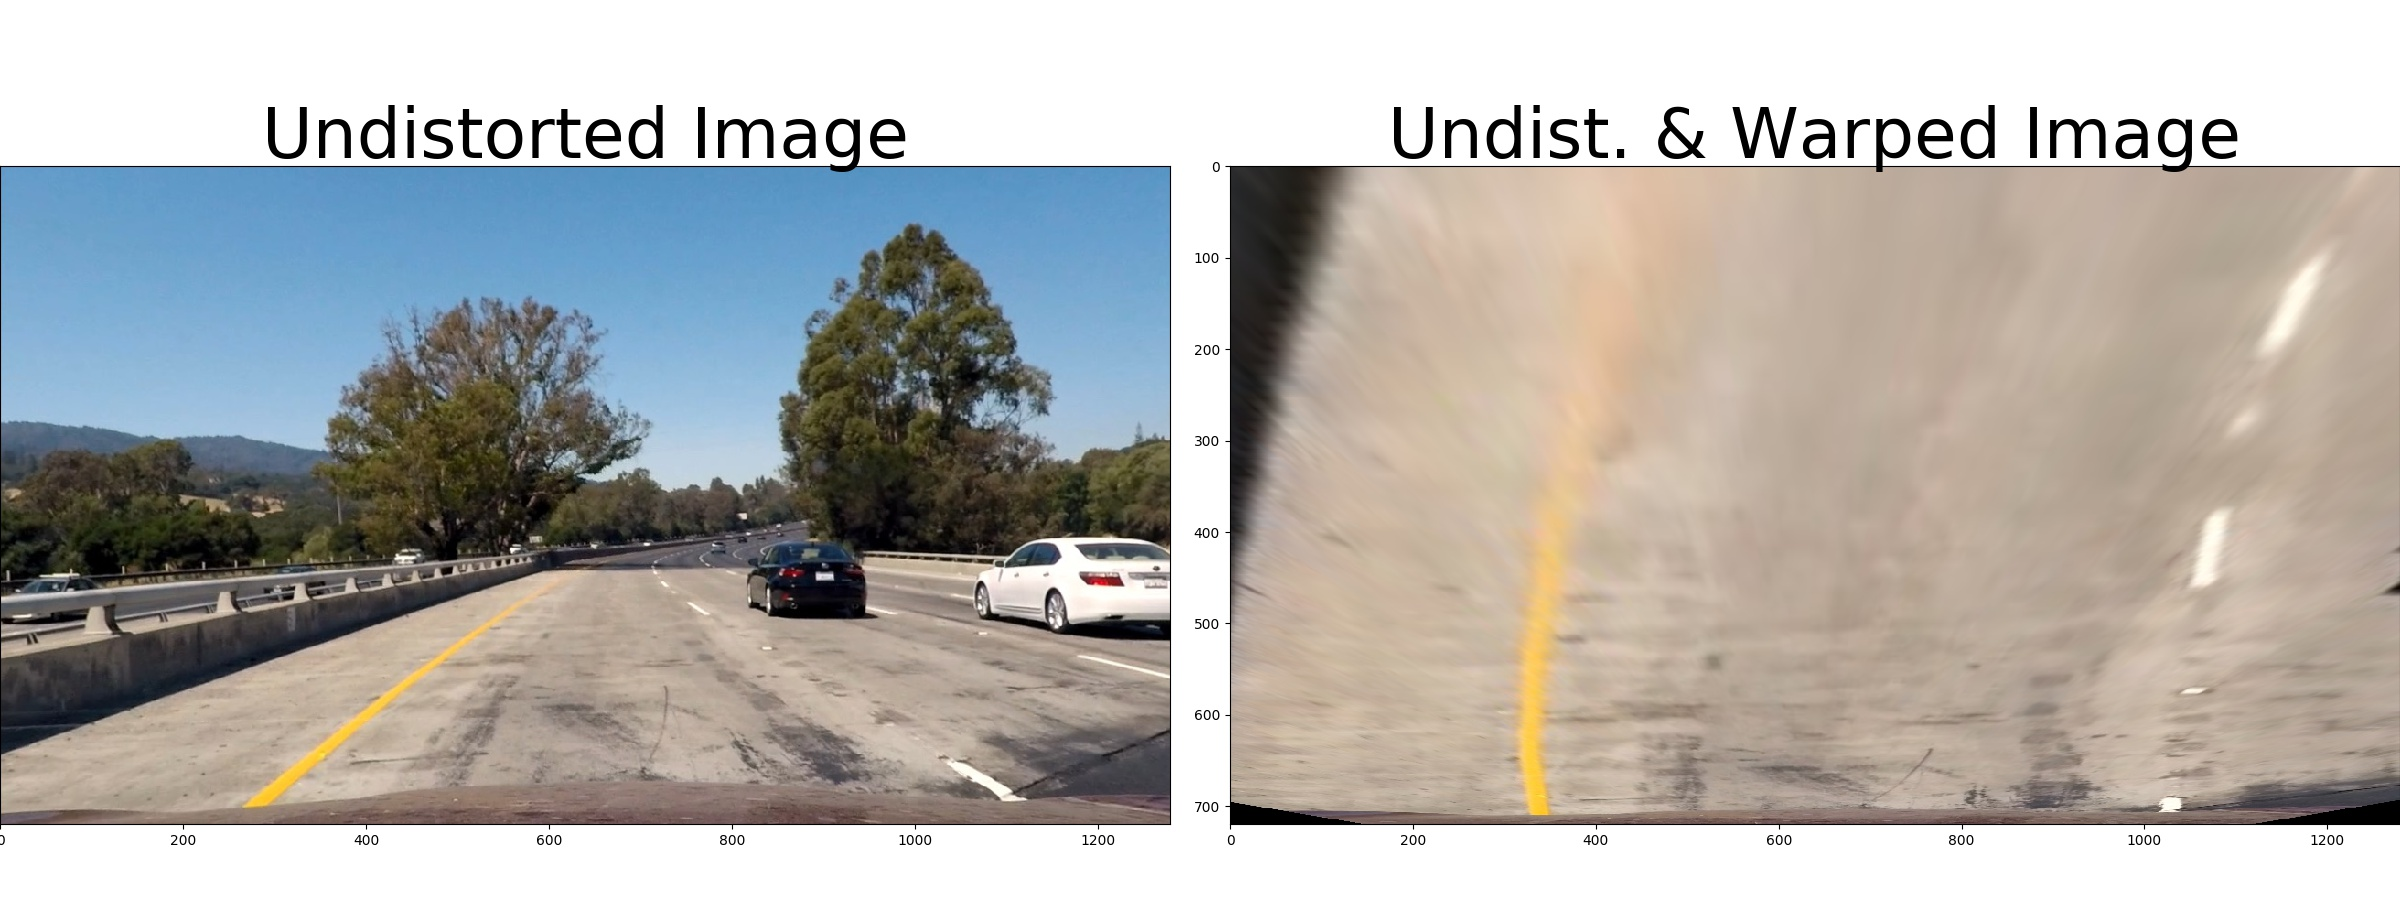
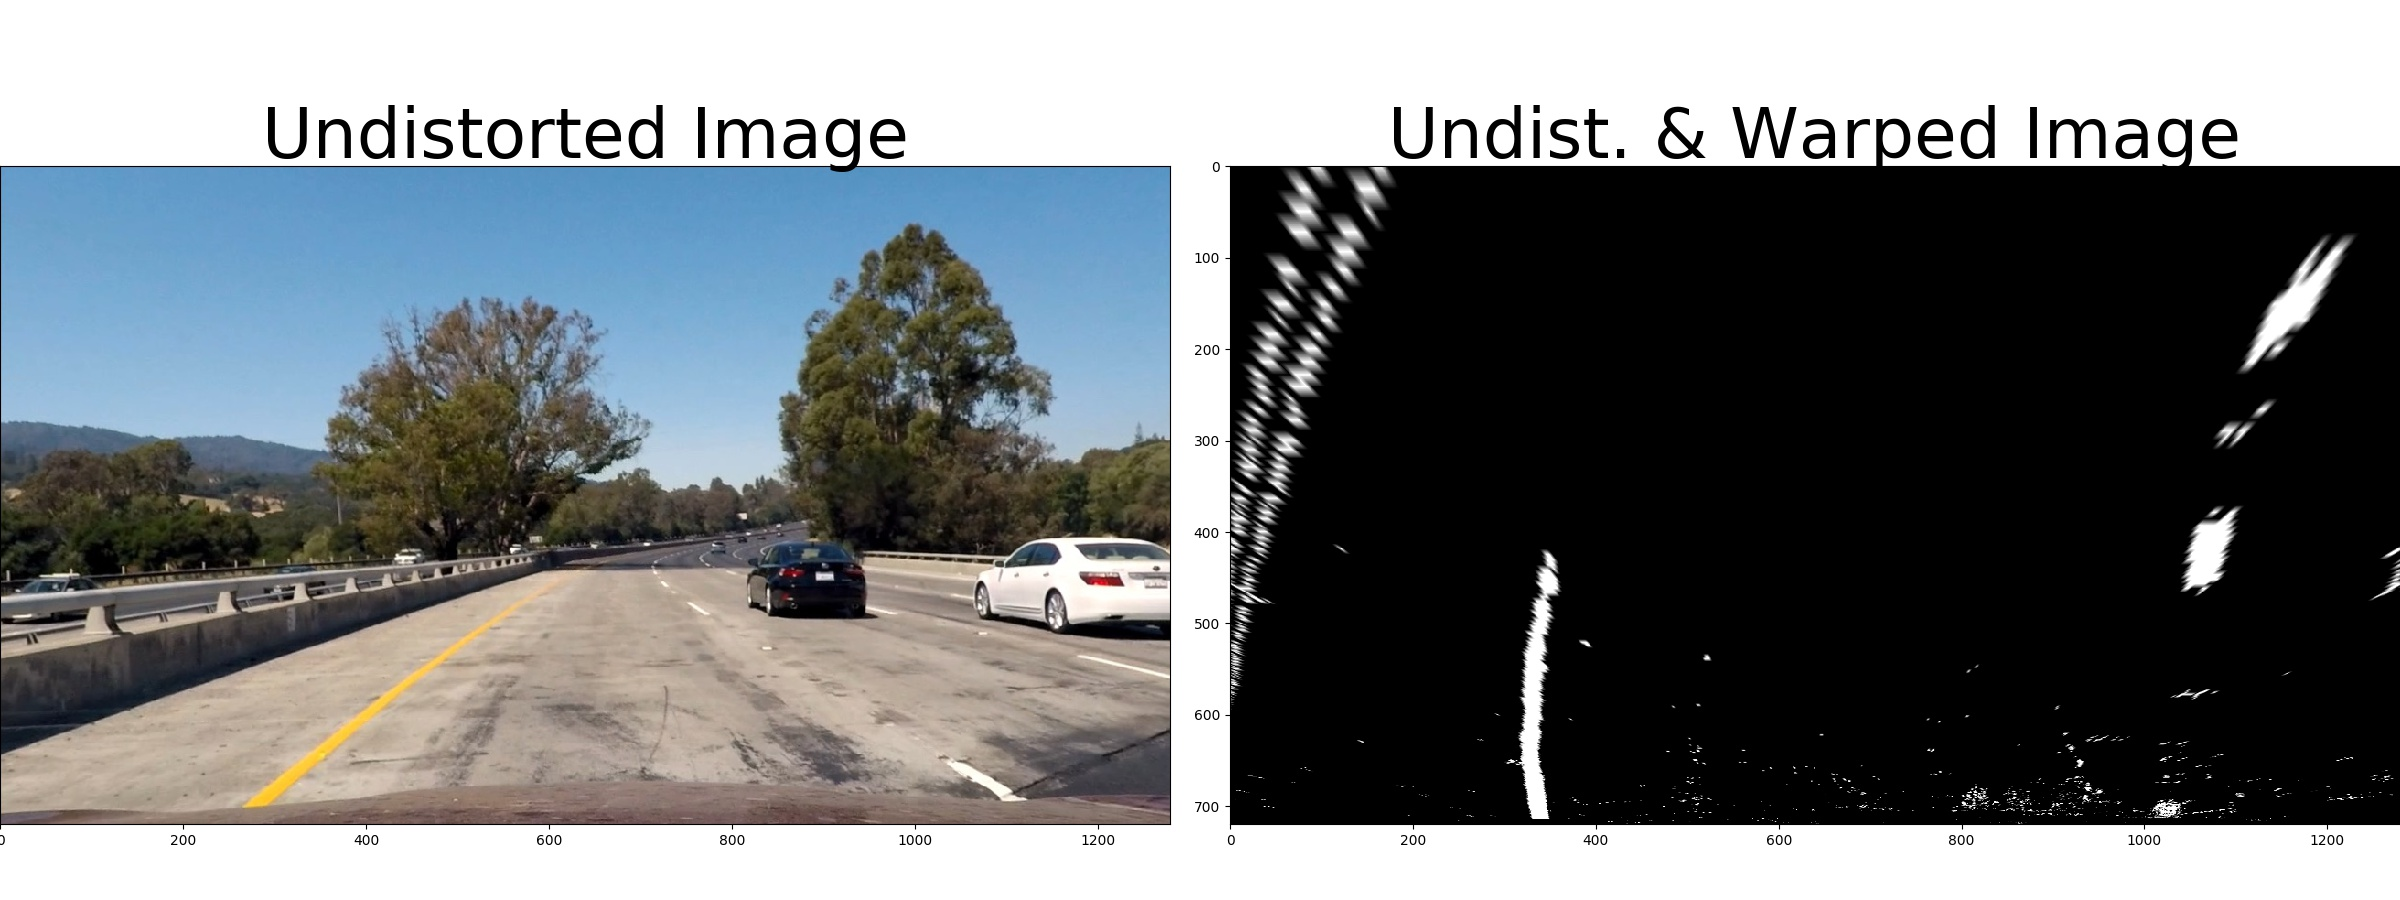
persepctive transform on combined image

diff --git a/main.py b/main.py
@@ -16,7 +16,7 @@ objpoints = [] # 3D points in real world space
 imgpoints = [] # 2D points in image space
 
 """
-1. Image Transformations
+1. Image Transformations and Analysis
 """
 
 def grayscale(img):
@@ -72,6 +72,22 @@ def perspective_transform(img):
 
     # Return the warped image and transform matrix
     return warped, M
+
+def sliding_window(img, saveFig=0):
+    """
+    Implements a sliding window search to identify lane lines
+
+    img: The image
+    saveFig: Whether or not to save the plot and results
+    return
+    """
+    # Take a histogram of the bottom half of the image
+    histogram = np.sum(img[img.shape[0]//2:,:], axis=0)
+
+    # Plot the histogram and save
+    plt.plot(histogram)
+    # if saveFig:
+
 
 """
 2. Threshold Calculations
@@ -303,14 +319,14 @@ def img_process_pipeline(fname, ksize=3, saveFile=0):
         plt.subplots_adjust(left=0., right=1, top=0.9, bottom=0.)
         plt.savefig(out_img_dir + '/combined_' + fname.split('/')[-1])
 
-    # Perspective transform (bird's eye view)
-    warped, M = perspective_transform(img)
+    # Perspective transform (bird's eye view )
+    warped, M = perspective_transform(combined)
     if saveFile:
         f, (ax1, ax2) = plt.subplots(1, 2, figsize=(24, 9))
         f.tight_layout()
         ax1.imshow(undist)
         ax1.set_title('Undistorted Image', fontsize=50)
-        ax2.imshow(warped)
+        ax2.imshow(warped, cmap='gray')
         ax2.set_title('Undist. & Warped Image', fontsize=50)
         plt.subplots_adjust(left=0., right=1, top=0.9, bottom=0.)
         plt.savefig(out_img_dir + '/persp_' + fname.split('/')[-1])
